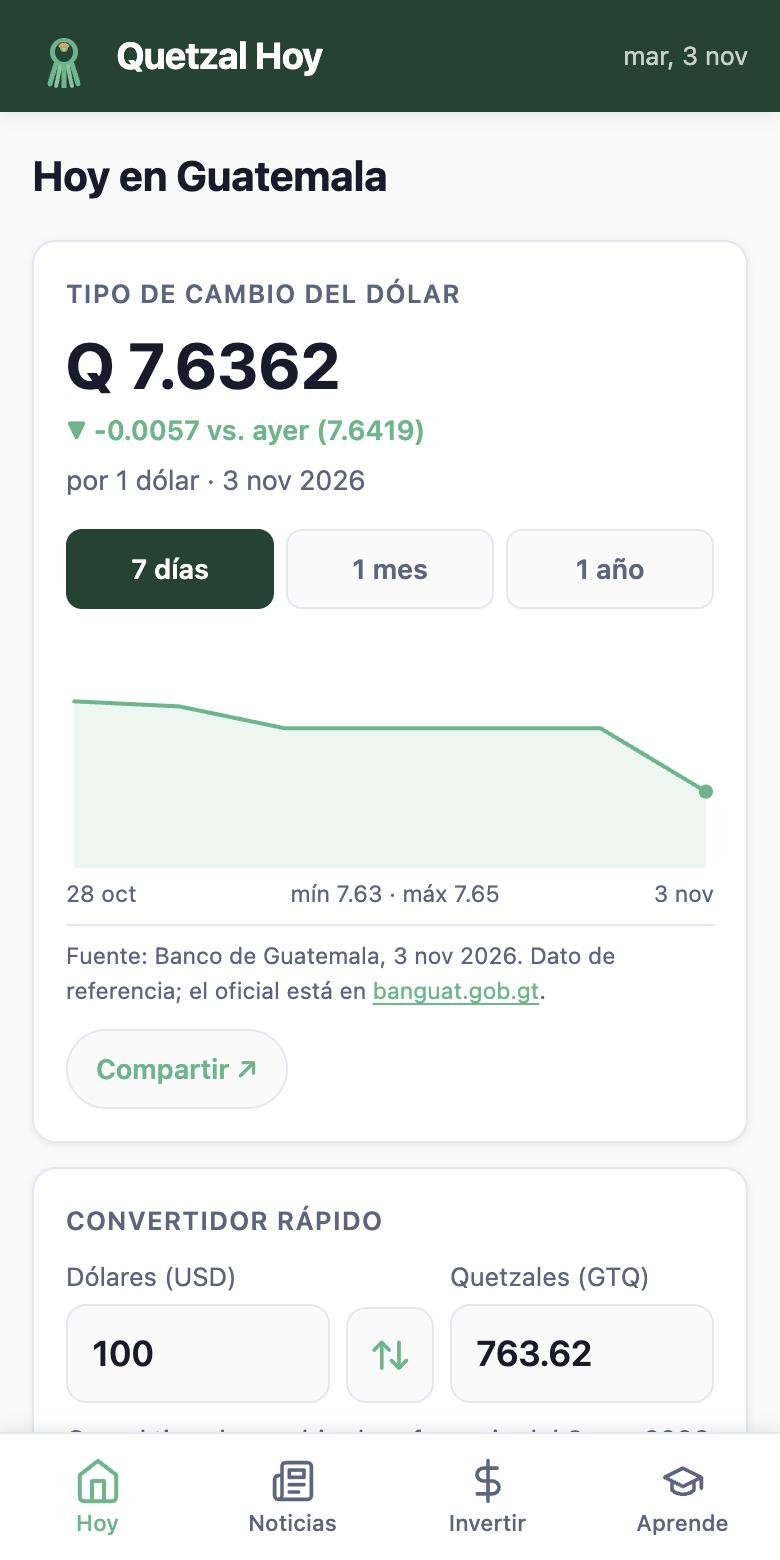
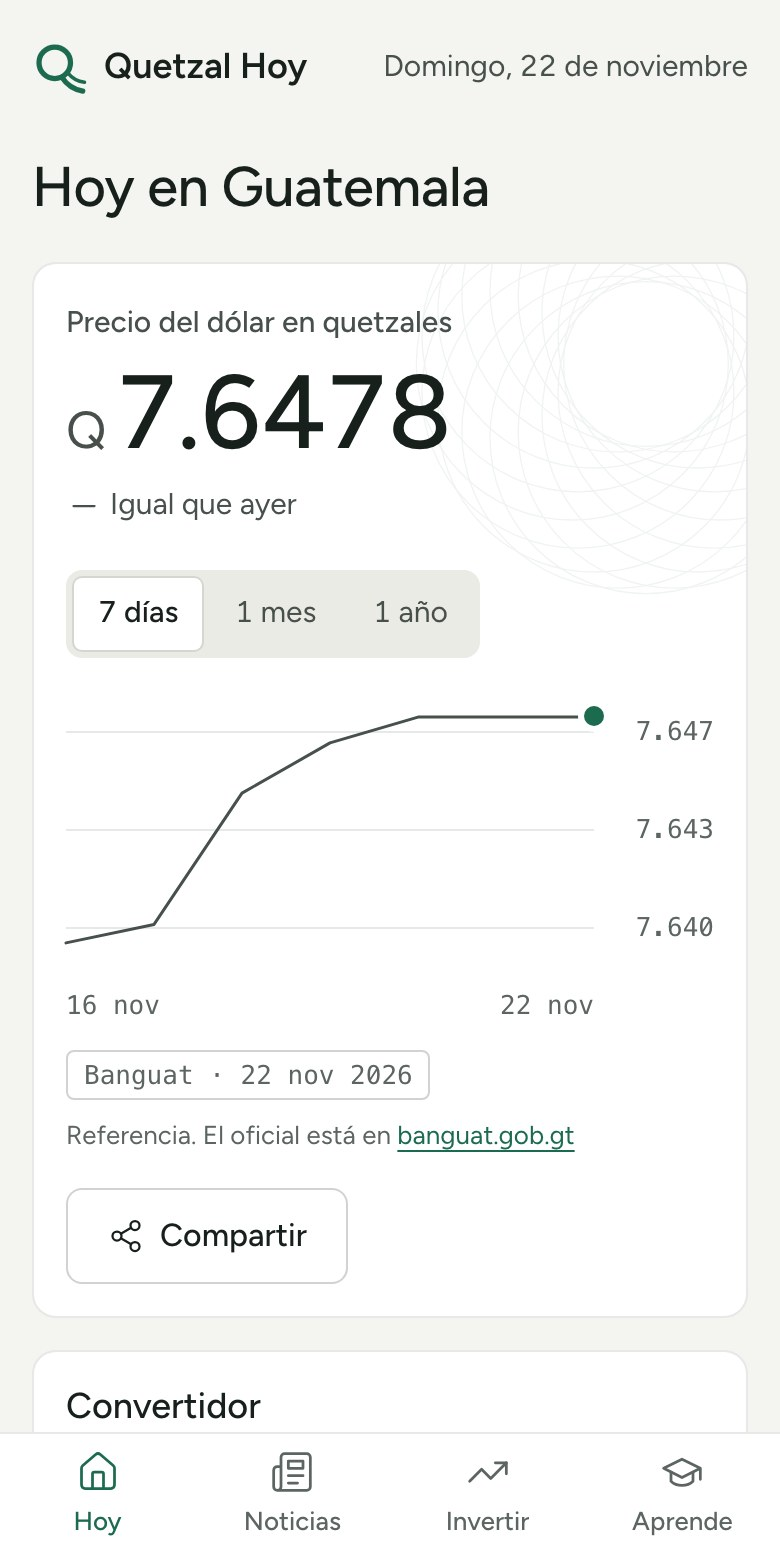
Fase U: sin saltos de diseño al cargar, capturas después y ficha de Play
La tarjeta del dólar reserva su lugar mientras llega el dato y la tarjeta de
instalar flota sobre la barra (CLS 0 en vivo). Capturas después tomadas del
sitio publicado, antes-despues.png, índice en docs/unslop y capturas de Google
Play con el diseño nuevo. Caché del service worker v17.

diff --git a/public/styles.css b/public/styles.css
@@ -49,6 +49,8 @@
   --ancho-max: 1120px;
   --ancho-lectura: 680px;
 
+  --sombra-flotante: 0 8px 24px rgba(23, 32, 27, 0.14);
+
   --curva: cubic-bezier(0.22, 1, 0.36, 1);
   --rapido: 150ms;
   --entrada: 360ms;
@@ -70,6 +72,7 @@
     --acento-suave: rgba(95, 191, 148, 0.12);
     --mal: #f08b81;
     --bien: #5fbf94;
+    --sombra-flotante: 0 8px 24px rgba(0, 0, 0, 0.5);
     color-scheme: dark;
   }
 }
@@ -139,6 +142,7 @@ em { font-style: normal; font-weight: 500; }
 .meta { font-size: var(--t-meta); color: var(--texto-3); }
 .lede { font-size: var(--t-tarjeta); color: var(--texto-2); }
 .cargando { color: var(--texto-3); font-size: var(--t-2); padding: var(--s4) 0; }
+.esqueleto { color: transparent !important; background: var(--superficie-2); border-color: transparent !important; border-radius: var(--r-sello); }
 .mt-sm { margin-top: var(--s2); } .mt-md { margin-top: var(--s4); } .mt-lg { margin-top: var(--s8); }
 .mb-md { margin-bottom: var(--s4); }
 .texto-centro { text-align: center; }
@@ -240,8 +244,14 @@ details.desplegable > p, details.desplegable > div { margin-top: var(--s2); }
 }
 .aviso-legal--arriba { margin: 0 0 var(--s5); padding: var(--s3) var(--s4); border: 0; border-radius: var(--r-control); background: var(--superficie-2); }
 
-/* ─── Instalar ─── */
-.instalar { margin-bottom: var(--s5); }
+/* ─── Instalar: tarjeta flotante sobre la barra, no empuja el contenido ─── */
+.instalar {
+  position: fixed; z-index: 30;
+  left: var(--s3); right: var(--s3);
+  bottom: calc(var(--barra) + env(safe-area-inset-bottom) + var(--s3));
+  border-color: var(--linea-fuerte); box-shadow: var(--sombra-flotante);
+  animation: entrar var(--entrada) var(--curva);
+}
 .instalar__cab { display: flex; align-items: center; gap: var(--s3); }
 .instalar__cab img { width: 44px; height: 44px; border-radius: var(--r-control); }
 .instalar__tit { font-weight: 500; }
@@ -499,6 +509,7 @@ details.desplegable > p, details.desplegable > div { margin-top: var(--s2); }
   .nav-btn { flex-direction: row; gap: var(--s2); padding: 0 var(--s3); border-radius: var(--r-control); font-size: var(--t-2); color: var(--texto-2); }
   .nav-btn.activo { background: var(--superficie); box-shadow: 0 0 0 1px var(--linea); }
   .columnas--parejas > * + *, .columnas > .col + .col { margin-top: 0; }
+  .instalar { left: auto; right: var(--s6); bottom: var(--s6); width: 400px; }
   .cabecera__fecha { display: none; }
   .main { padding: var(--s4) var(--s6) var(--s16); }
   .pie { padding: var(--s4) var(--s6) var(--s8); }

diff --git a/public/index.html b/public/index.html
@@ -60,9 +60,15 @@
       <h1 class="titulo-pagina">Hoy en Guatemala</h1>
       <div class="columnas">
         <div class="col">
-          <div class="tarjeta tarjeta--tc" id="card-tipo-cambio">
-            <h2 class="etiqueta">Precio del dólar</h2>
-            <div class="cargando">Cargando dato…</div>
+          <!-- Mientras llega el dato, la tarjeta ya ocupa su lugar para que nada salte -->
+          <div class="tarjeta tarjeta--tc" id="card-tipo-cambio" aria-busy="true">
+            <h2 class="etiqueta">Precio del dólar en quetzales</h2>
+            <div class="tc__valor"><span class="tc__moneda">Q</span><span class="esqueleto">7.0000</span></div>
+            <p class="tc__cambio"><span class="esqueleto">Cargando el dato de hoy</span></p>
+            <div class="tc__controles" aria-hidden="true"><div class="segmentos"><span class="rango activo">7 días</span><span class="rango">1 mes</span><span class="rango">1 año</span></div></div>
+            <div class="grafica" aria-hidden="true"><div class="grafica__area"></div><div class="grafica__x"><span>&nbsp;</span></div></div>
+            <div class="sello-linea" aria-hidden="true"><span class="sello esqueleto">Banguat · 22 nov 2026</span><span class="meta esqueleto">Referencia. El oficial está en banguat.gob.gt</span></div>
+            <div class="acciones" aria-hidden="true"><span class="btn-secundario esqueleto">Compartir</span></div>
           </div>
 
           <div class="tarjeta" id="card-convertidor">
@@ -80,7 +86,7 @@
                 <input type="number" inputmode="decimal" id="gtq" placeholder="0" min="0" step="any">
               </label>
             </div>
-            <p class="texto-2 mt-md" id="convertidor-nota">Se activa con el tipo de cambio del día</p>
+            <p class="texto-2 mt-md" id="convertidor-nota">Se activa con el tipo de cambio de referencia del día. Los bancos y las remesadoras usan su propia tasa.</p>
           </div>
         </div>
 

diff --git a/public/app.js b/public/app.js
@@ -153,6 +153,7 @@
   function pintarTipoCambio(d) {
     var card = document.getElementById('card-tipo-cambio');
     if (!d || !d.disponible) {
+      card.removeAttribute('aria-busy');
       card.innerHTML =
         '<h2 class="etiqueta">Precio del dólar</h2>' +
         '<p class="texto-2 mt-sm">No pudimos cargar el dato. Consúltalo en <a href="https://www.banguat.gob.gt" target="_blank" rel="noopener">banguat.gob.gt</a>.</p>';
@@ -162,6 +163,7 @@
     var esHoy = d.fecha === new Date().toISOString().slice(0, 10);
     var avisoFecha = esHoy ? '' : '<p class="tc__aviso">Último dato disponible: ' + fechaCorta(d.fecha) + '. Aún no hay dato de hoy.</p>';
 
+    card.removeAttribute('aria-busy');
     card.innerHTML =
       '<h2 class="etiqueta">Precio del dólar en quetzales</h2>' +
       '<div class="tc__valor"><span class="tc__moneda">Q</span>' + d.valor.toFixed(4) + '</div>' +

diff --git a/public/sw.js b/public/sw.js
@@ -1,4 +1,4 @@
-const CACHE = 'quetzal-hoy-v16';
+const CACHE = 'quetzal-hoy-v17';
 const PRECACHE = [
   '/',
   '/styles.css',

diff --git a/docs/unslop/README.md b/docs/unslop/README.md
@@ -1,0 +1,49 @@
+# Fase U — Rediseño con Unslop
+
+![Hoy, antes y después](antes-despues.png)
+
+- `UNSLOP.md` — las instrucciones aprobadas de la fase.
+- `auditoria.md` — lo que se veía hecho por IA antes del rediseño (nivel Fuerte).
+- `antes/` — capturas de todas las pantallas antes (390 px claro y oscuro, Hoy a 1280 px, imagen del día,
+  og-image e ícono).
+- `despues/` — las mismas pantallas después, tomadas del sitio publicado (hoy.compoundclub.fyi).
+- `antes-despues.png` — Hoy lado a lado. No hay video: esta Mac no tiene Playwright ni ffmpeg.
+- Reglas de diseño que quedan para las próximas fases: [`DISENO.md`](../../DISENO.md).
+
+## Lo de la auditoría, punto por punto
+
+| Grupo | Antes | Después |
+|---|---|---|
+| Superficies y color | Degradados en cabecera, botones, portadas y barras; mancha radial; sombras de color; fondo teñido de verde; cinco colores a la vez; dólar en verde/naranja | Papel grafito neutro y un solo acento verde; sin degradados, brillos ni sombras de color; el dólar sube o baja en gris con flecha y palabras |
+| Tipografía | Pesos 800, etiquetas en MAYÚSCULAS, textos de 10–12 px, cifras sin tabular, fuente del sistema | Figtree 400–600 autoalojada, tipo oración, nada menor de 13 px, números tabulares en toda la app |
+| Íconos | Emojis en indicadores, noticias, cursos, 404, sin conexión, WhatsApp; logo de dos colores | Íconos de línea (Lucide, trazo 1.5): 22 px en la barra, 18 px en lo demás; cero emojis; logo de un color |
+| Espaciado | Valores sueltos (6, 10, 14, 18 px), rellenos distintos, franja vacía de 470 px en la tarjeta del dólar | Escala de 4; mismas tarjetas con el mismo relleno; la tarjeta del dólar mide lo que su contenido |
+| Textos | Puntos finales en etiquetas, "vs. ayer" sin palabras, tres frases sin comprobar, "Resumen automático" como pastilla | Sin puntos en etiquetas, "Q 0.0116 más que ayer", frases sin comprobar quitadas, "Resumen automático" discreto |
+| Componentes | Pastillas por todos lados, badges de colores, fuente y fecha distinta en cada lugar | Un solo componente para fuente y fecha: el sello `Banguat · 22 nov 2026` |
+| Visuales | Tejido, quetzal de marca de agua, portadas de colores | Solo dos momentos: la gráfica del dólar (con guilloché muy tenue) y las gráficas de calculadoras |
+| Movimiento | Escalas al pasar el mouse, tiempos distintos, spinner girando | Una curva, 150 ms de respuesta y 360 ms de entrada; respeta "reducir movimiento" |
+| Layout | Tira de 600 px en computadora, barra estirada | Hoy e Invertir a dos columnas hasta 1120 px, pestañas en la cabecera |
+
+## Checklist de la skill (al cierre)
+
+- [x] Dirección escrita y seguida en cada pasada (`DISENO.md`)
+- [x] Espaciado en la escala de 4; cosas iguales con tamaños iguales
+- [x] Íconos, etiquetas y números alineados en su columna
+- [x] Una rampa neutra, tres roles de texto y un acento con contraste AA (claro y oscuro)
+- [x] Sin degradados, texto degradado, brillos, sombras de color ni manchas
+- [x] Sin emojis en la interfaz
+- [x] Un solo set de íconos con un trazo
+- [x] Tipografía elegida por el carácter, pesos 400–600, sin mayúsculas espaciadas, sin cursiva
+- [x] Pantallas de derecha a izquierda: no aplica (solo español)
+- [x] Sin exclamaciones, sin puntos en textos cortos, sin saludos, sin frases sin comprobar
+- [x] Números en un solo formato con cifras tabulares
+- [x] Radios anidados coherentes (12 → 8 → 4)
+- [x] Tablas: encabezado, valores y foco se distinguen
+- [x] Botones con el mismo radio de control
+- [x] La primera pantalla tiene un momento real (la tarjeta del dólar), sin relleno
+- [x] Primera pantalla sin franjas vacías; la tarjeta del dólar reserva su lugar mientras carga
+- [x] Sin movimiento en bucle ni rebotes; una curva; sin animar alto, ancho ni posición
+- [x] Prueba de plantilla: con otro nombre la pantalla no encaja (precio del dólar en quetzales, sello del
+  Banguat, la Q con cola de quetzal, el guilloché de billete)
+
+Rediseño guiado por unslop de Damir Sokolovsky (@heydamir), CC BY 4.0.

diff --git a/PROGRESO.md b/PROGRESO.md
@@ -263,7 +263,7 @@
 - 22 nov 2026 (fase U): no se hizo el video de historia del punto 10 porque esta Mac no tiene Playwright
   ni ffmpeg. En su lugar, `docs/unslop/antes-despues.png` con Hoy antes y después lado a lado. Las
   capturas se toman con `scripts/capturas.mjs` (Chrome sin ventana, sin dependencias).
-- 22 nov 2026 (fase U): caché del service worker v15 → v16.
+- 22 nov 2026 (fase U): caché del service worker v15 → v17 (v16 salió en la primera publicación del rediseño; v17 con el arreglo de saltos de diseño).
 - 22 nov 2026 (fase U): como la app aún no se sube a Google Play, se rehicieron con el diseño nuevo el
   gráfico destacado (`android/grafico-destacado.png`, ahora lo genera `scripts/iconos.mjs`; se borró el
   `.svg` viejo) y las capturas de `android/capturas/` (780×1560, tomadas del sitio publicado con
